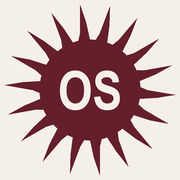
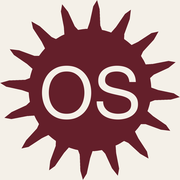
Иконка крупнее: 12 лучей вместо 18, буквы больше
Форма упрощена, чтобы OS читалось во вкладке при 16 пикселях.

Changed region(s): [[0.0, 0.0, 1.0, 1.0], [0.4722, 0.4167, 0.5, 0.4444], [0.4444, 0.4444, 0.4722, 0.4722]]

diff --git a/index.html b/index.html
@@ -8,9 +8,10 @@
 <meta property="og:description" content="Реклама начинается с понимания ваших клиентов.">
 <meta property="og:type" content="website">
 <title>Олексій Савченко — Meta Ads</title>
-<link rel="icon" href="img/favicon.svg?v=2" type="image/svg+xml">
-<link rel="icon" href="img/favicon-32.png?v=2" sizes="32x32">
-<link rel="apple-touch-icon" href="img/apple-touch-icon.png?v=2">
+<link rel="icon" href="img/favicon.svg?v=3" type="image/svg+xml">
+<link rel="icon" href="img/favicon-32.png?v=3" sizes="32x32">
+<link rel="icon" href="img/favicon-64.png?v=3" sizes="64x64">
+<link rel="apple-touch-icon" href="img/apple-touch-icon.png?v=3">
 <meta name="theme-color" content="#F4F0E8">
 <link rel="preconnect" href="https://fonts.googleapis.com">
 <link rel="stylesheet" href="https://fonts.googleapis.com/css2?family=Playfair+Display:ital,wght@1,600;1,700&family=Sofia+Sans+Extra+Condensed:ital,wght@0,700;0,800;0,900;1,800&family=Manrope:wght@400;500;600&family=IBM+Plex+Mono:wght@400;500&display=swap">
